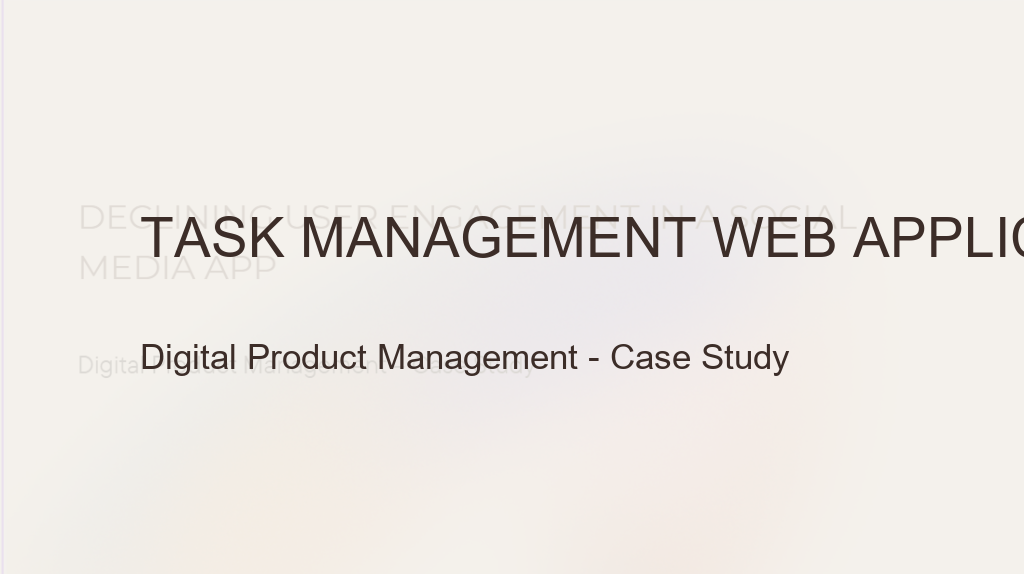
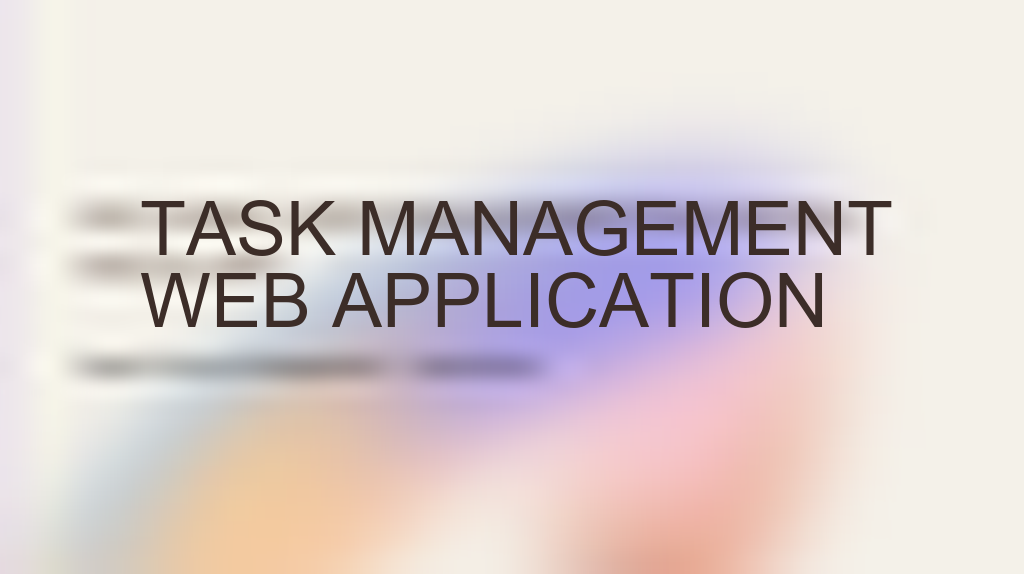
fix: resolve ghosting and layout issues in case study 2 image

diff --git a/gen_image.py b/gen_image.py
@@ -1,44 +1,31 @@
-import sys
-import urllib.request
-import os
-try:
-    from PIL import Image, ImageDraw, ImageFont, ImageFilter
-except ImportError:
-    import subprocess
-    subprocess.check_call([sys.executable, "-m", "pip", "install", "Pillow"])
-    from PIL import Image, ImageDraw, ImageFont, ImageFilter
+from PIL import Image, ImageDraw, ImageFont
 
 def create_image():
     print("Opening source image...")
-    img = Image.open("case-study-1.png").convert("RGBA")
+    img = Image.open("case-study-1.png").convert("RGB")
     width, height = img.size
 
-    print("Creating overlay to obscure old text...")
-    # A soft overlay that matches the beige background somewhat, leaving the gradient visible but faded
-    overlay = Image.new("RGBA", (width, height), (244, 241, 236, 230))
-    img = Image.alpha_composite(img, overlay).convert("RGB")
+    # Downscale to a tiny size and upscale to create a smooth abstract gradient
+    # This completely erases the original text while keeping the nice colors!
+    img = img.resize((32, 32), Image.Resampling.LANCZOS)
+    img = img.resize((width, height), Image.Resampling.LANCZOS)
 
     print("Drawing text...")
     draw = ImageDraw.Draw(img)
     
-    # Try to calculate text size to fit if needed, but 55 should be safe
     try:
-        font_large = ImageFont.truetype("C:/Windows/Fonts/arial.ttf", 55)
-        font_small = ImageFont.truetype("C:/Windows/Fonts/arial.ttf", 35)
+        # Use a larger font, and split into two lines so it doesn't get cut off
+        font_large = ImageFont.truetype("C:/Windows/Fonts/arial.ttf", 75)
     except Exception as e:
         print("Font error:", e)
         font_large = ImageFont.load_default()
-        font_small = ImageFont.load_default()
 
-    text_main = "TASK MANAGEMENT WEB APPLICATION"
-    text_sub = "Digital Product Management - Case Study"
-
-    # Use a dark brownish color similar to original text
+    # Split into two lines, and NO subtext as requested
+    text_main = "TASK MANAGEMENT\nWEB APPLICATION"
     text_color = (60, 45, 40)
     
-    # Coordinates (approx matching original)
-    draw.text((140, height // 2 - 80), text_main, fill=text_color, font=font_large)
-    draw.text((140, height // 2 + 50), text_sub, fill=text_color, font=font_small)
+    # Draw the text
+    draw.text((140, height // 2 - 100), text_main, fill=text_color, font=font_large)
 
     img.save("case-study-2.png")
     print("Saved as case-study-2.png")